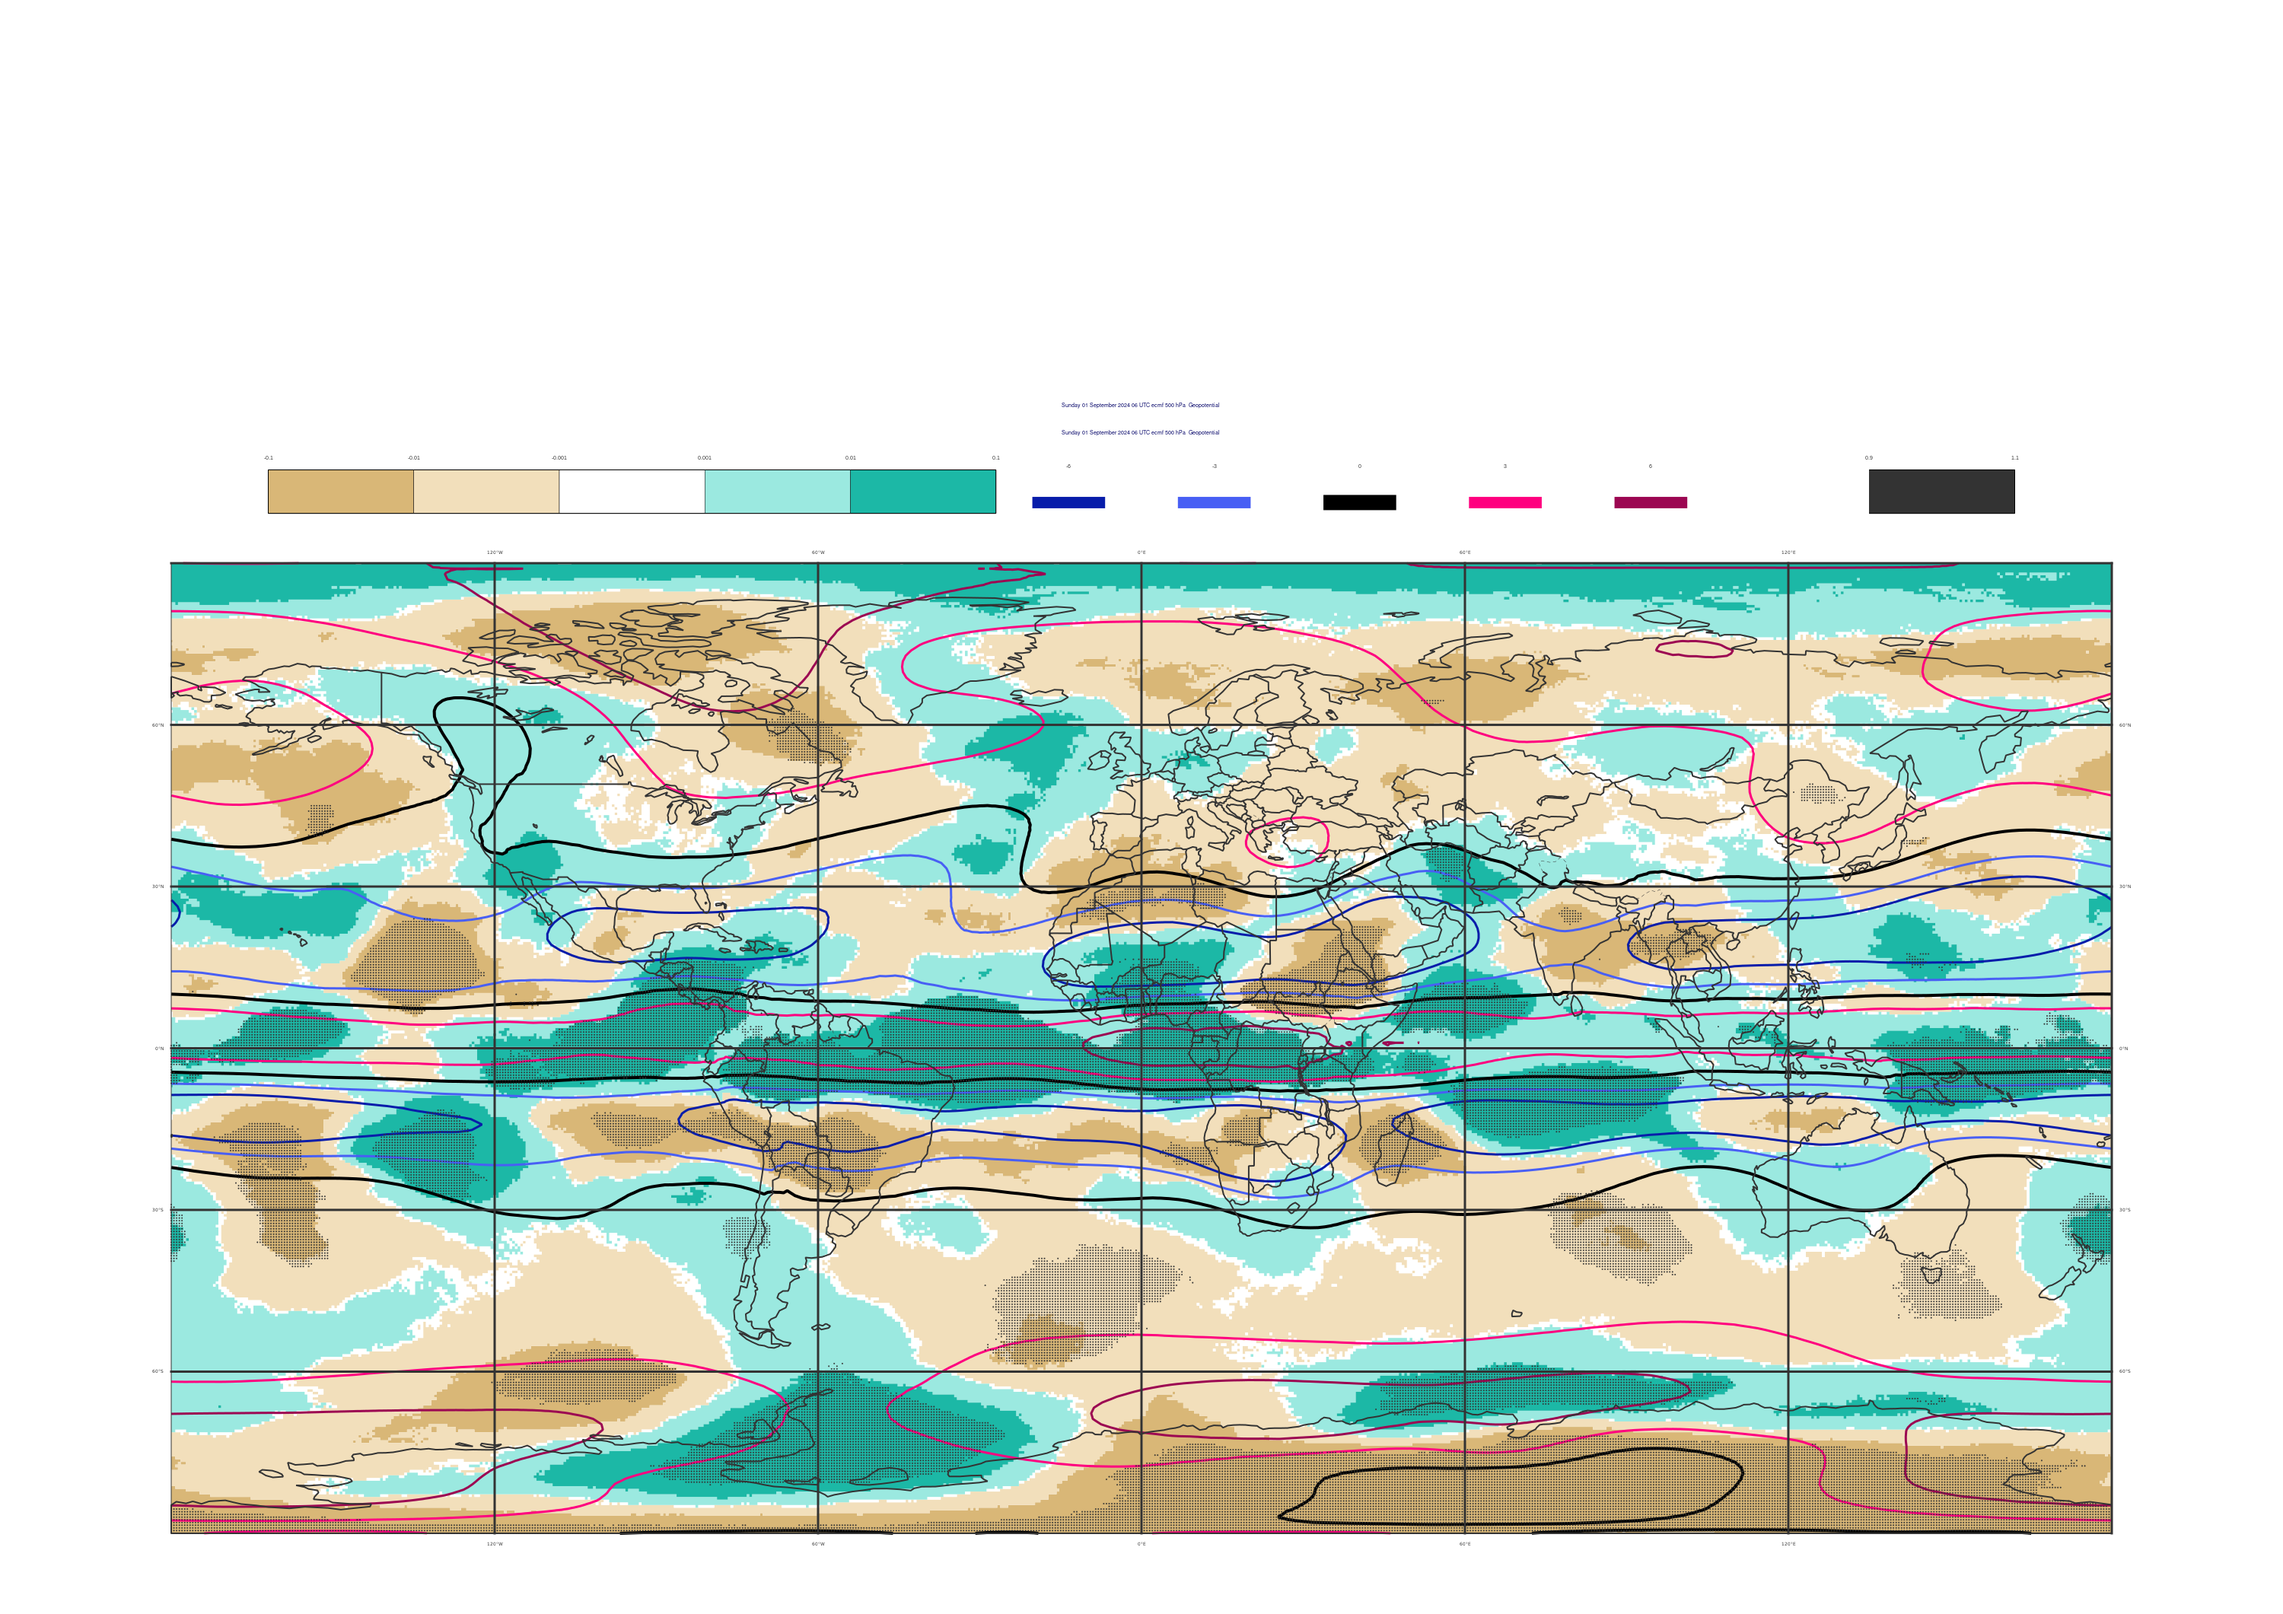
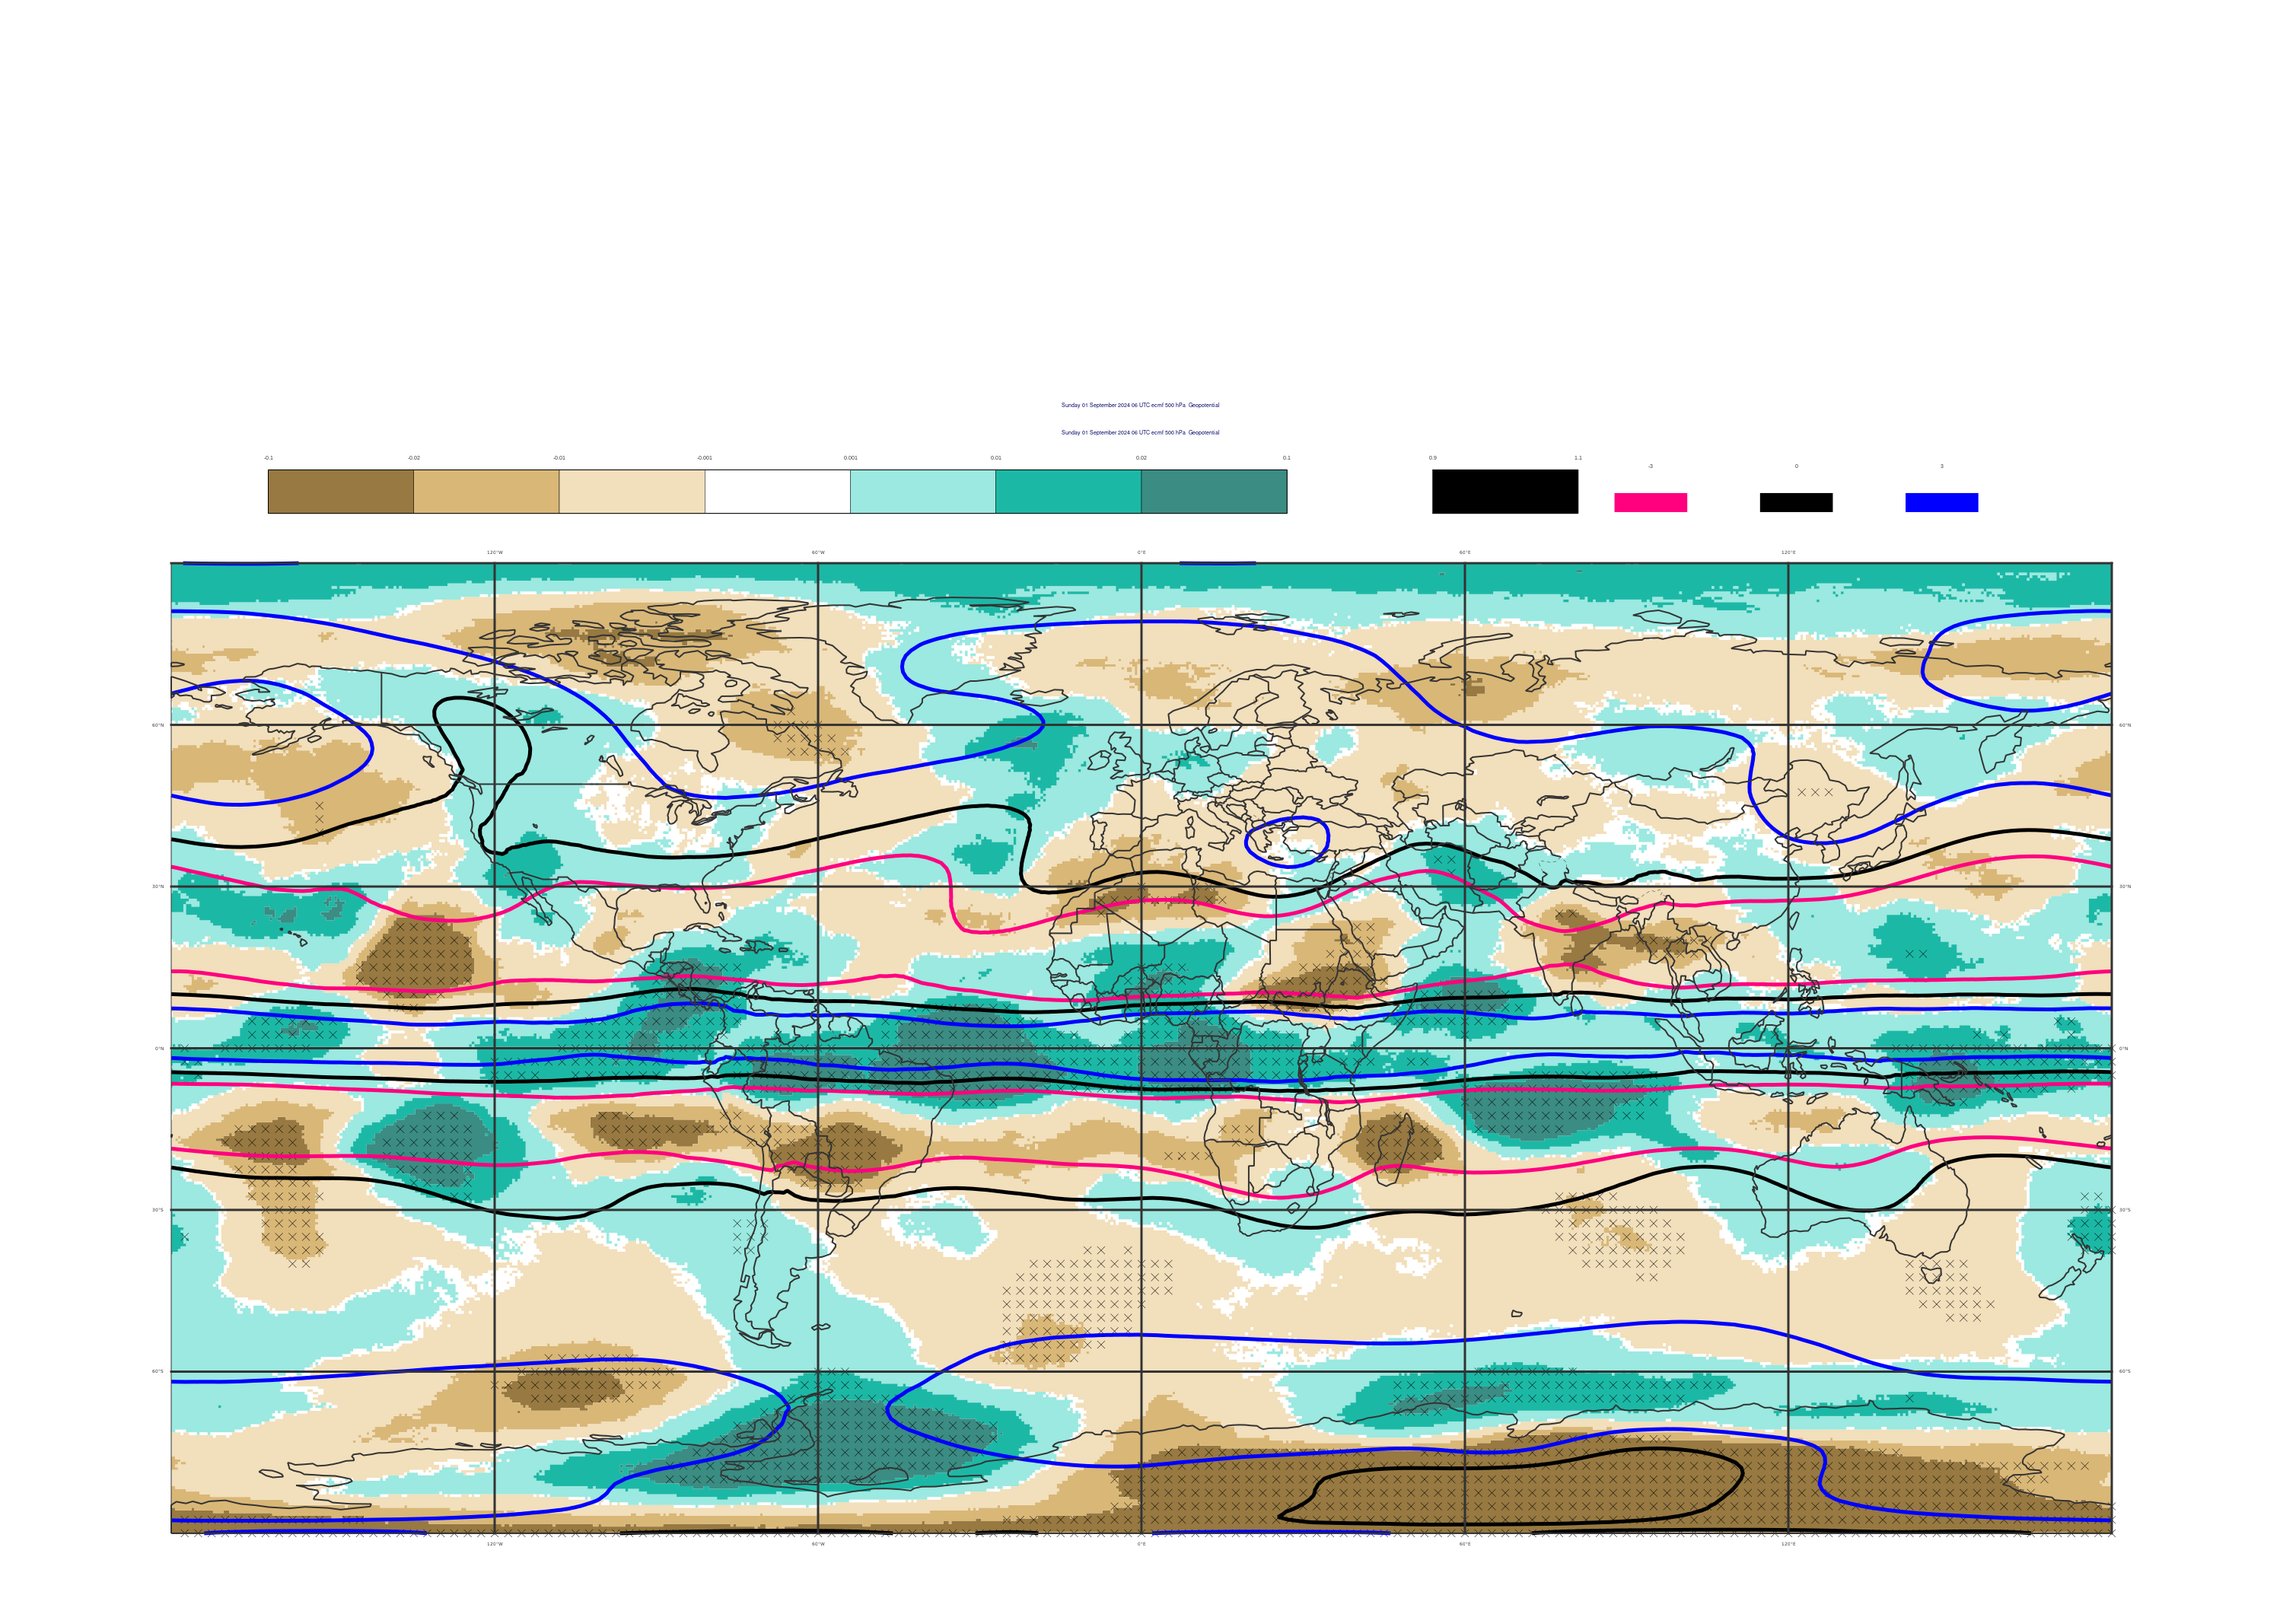
Adding map plots with colours only where the trends are significant.

diff --git a/scripts/processed/13_plot_trend_global_new1.py b/scripts/processed/13_plot_trend_global_new1.py
@@ -32,7 +32,7 @@ year_f = 2024
 radius_list = [500, 1000, 2000, 3000]
 season_list = ["DJF", "MAM", "JJA", "SON"]
 dir_in = os.path.join(DATA_COMPUTE_DIR, "12_trend_global")
-dir_out = os.path.join(DATA_PLOTS_DIR, "13_trend_global_new")
+dir_out = os.path.join(DATA_PLOTS_DIR, "13_trend_global_new1")
 ############################################################################
 
 
@@ -49,20 +49,8 @@ for radius in radius_list:
         curv_vals = mv.read(f"{dir_in}/{year_s}_{year_f}/curv_vals_{season}_{radius}m.grib")
         pvalue = mv.read(f"{dir_in}/{year_s}_{year_f}/pvalue_{season}_{radius}m.grib")
 
-        # Processing the p-value data for display
-        pvalue = mv.regrid(
-            grid = [2.5,2.5],
-            interpolation = "nearest_neighbour",
-            data = pvalue
-            )
-
-        pvalue = (pvalue <= 0.05)
-        pvalue_geo = mv.create_geo(
-            type = 'xyv',
-            latitudes = mv.latitudes(pvalue),
-               longitudes = mv.longitudes(pvalue),
-               values = mv.values(pvalue)
-               )
+        # Selecting slope values where p-value <= 0.05
+        significant_slope = sen_slope * (pvalue <= 0.05)
 
         # Plotting the trend stats
         coastlines = mv.mcoast(
@@ -125,17 +113,6 @@ for radius in radius_list:
             contour_line_colour_rainbow_colour_list = ["rgb(1,0,0.498)", "black", "rgb(0,0,1)"],
             contour_line_thickness_rainbow_list = [10,10,10]
             )
-        
-        symbol_pvalue = mv.msymb(
-            legend = "on",
-            symbol_type = "marker",
-            symbol_table_mode = "on",
-            symbol_min_table = [0.9],
-            symbol_max_table = [1.1],
-            symbol_marker_table = [4],
-            symbol_colour_table = ["rgb(0,0,0)"],
-            symbol_height_table = [ 0.2]
-            )
 
         # Save the trend statistics as grib files
         dir_out_temp = f"{dir_out}/{year_s}_{year_f}"
@@ -144,8 +121,7 @@ for radius in radius_list:
         png_slope = mv.png_output(output_width = 3000, output_name = file_out_slope)
         mv.setoutput(png_slope)
         mv.plot(
-            sen_slope, contouring_slope,
-            pvalue_geo, symbol_pvalue,
+            significant_slope, contouring_slope,
             curv_vals, contouring_curv,
             coastlines, legend
             )
